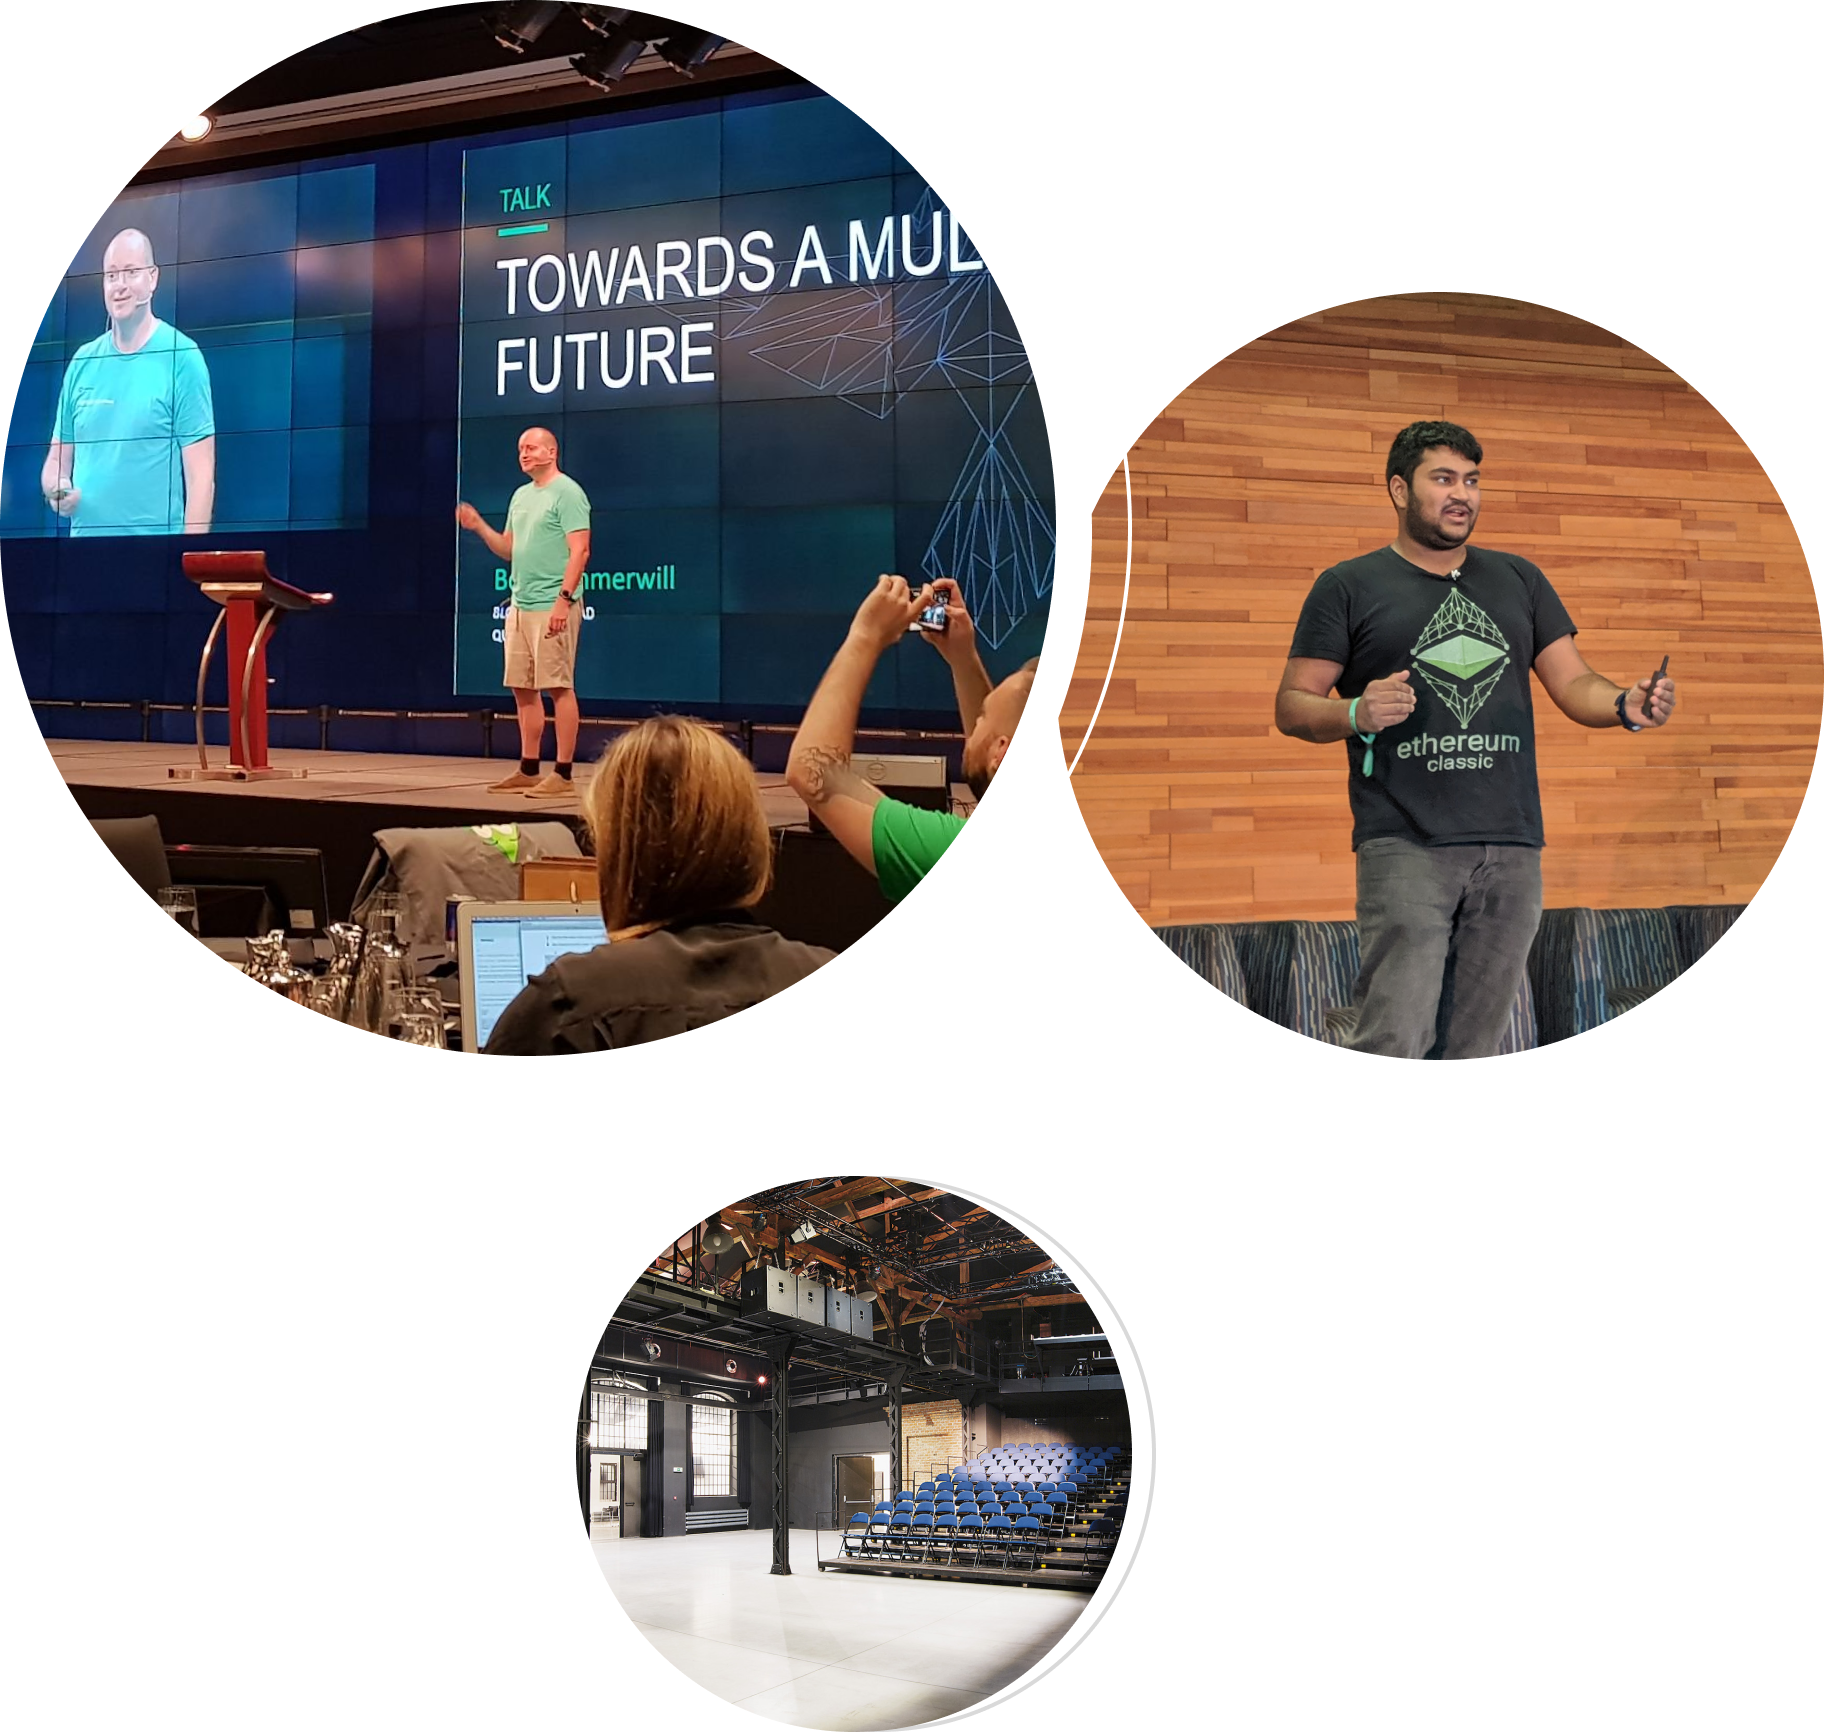
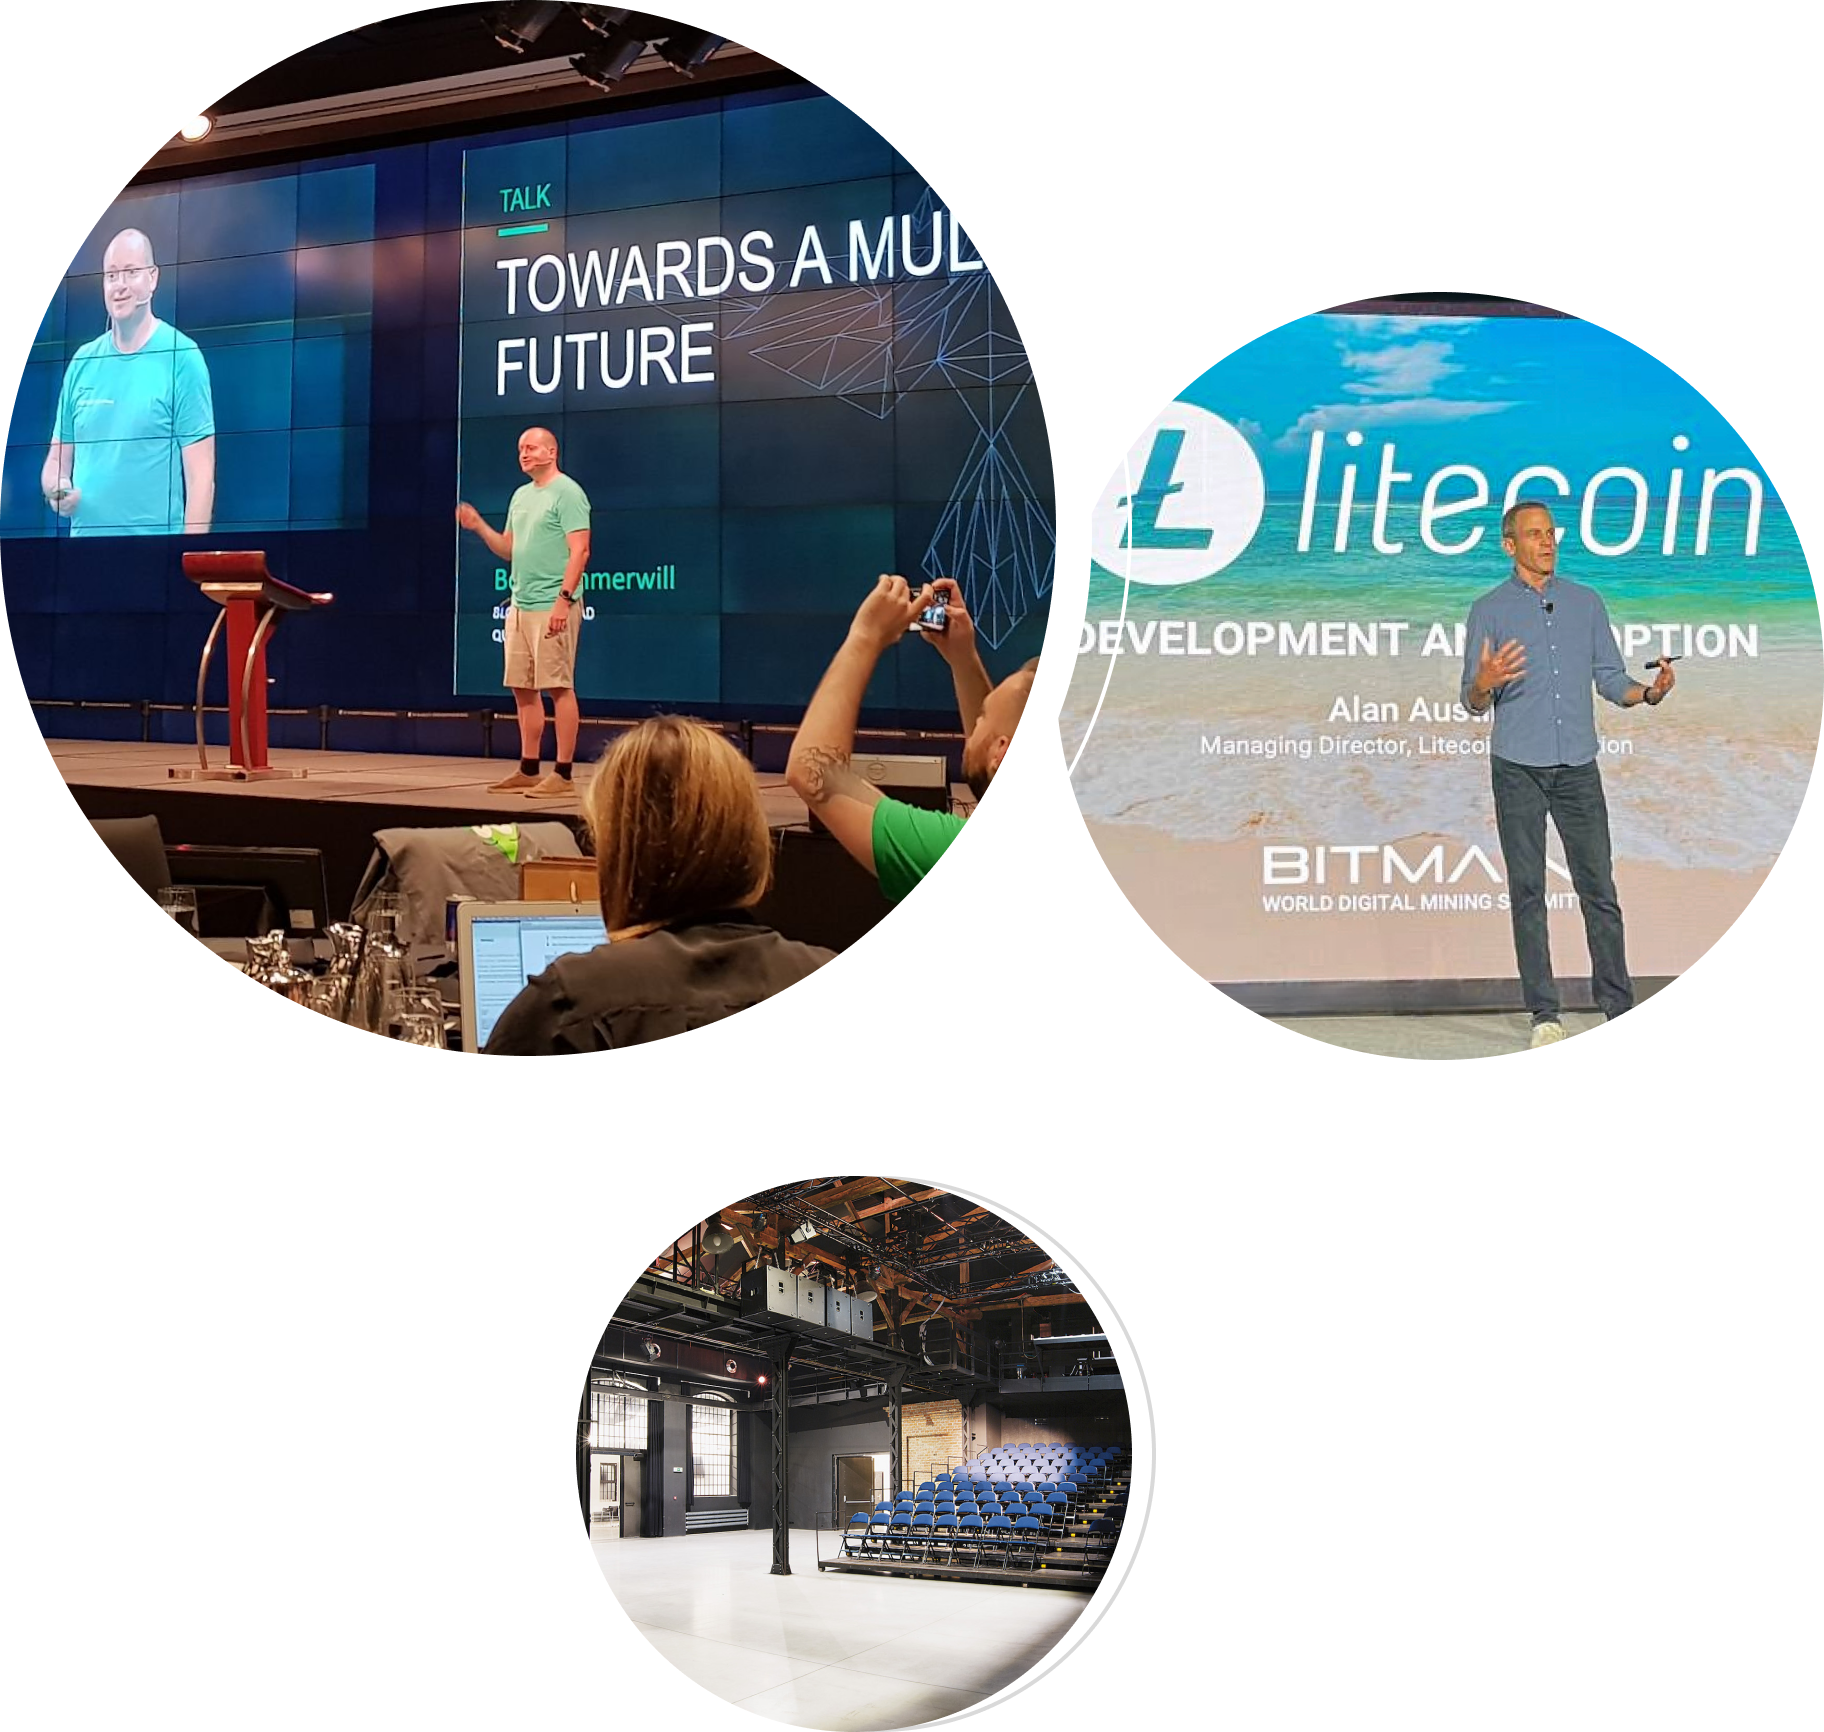
Latest Figma Updates (#21)
* #6 fix circle problem in speakers

* #4 Use LTC Foundation logo

* #2 CSS updates for new figma design changes

* figma design updates

* figma updates

diff --git a/src/assets/css/styles.css b/src/assets/css/styles.css
@@ -160,6 +160,10 @@
 	height: 17px;
 }
 
+.heroContainer .buyTktBtnContainer {
+	padding-top: 144px;
+}
+
 .heroContainer .heroImg {
 	width: 100%;
 }
@@ -290,6 +294,7 @@
 }
 
 .speakerCards .speakerInfo .speakersCompany {
+	max-width: 160px;
 	font-family: "Noto Sans", sans-serif;
 	font-style: normal;
 	font-weight: 500;
@@ -560,7 +565,7 @@
 }
 
 .eventTicketsContainer .card.generalTicket .ticketData {
-	margin-bottom: 142px;
+	margin-bottom: 36px;
 }
 
 .eventTicketsContainer .card.vipTicket .ticketData {
@@ -665,7 +670,7 @@
 
 .sponsorsContainer .sponsorsLogos {
 	display: flex;
-	justify-content: space-between;
+	justify-content: end;
 	max-width: 569px;
 	width: 100%;
 	margin-left: auto;
@@ -680,7 +685,6 @@
 }
 
 .sponsorsContainer .sponsorsLogo img {
-	width: 90px;
 	height: auto;
 }
 
@@ -758,7 +762,7 @@
 	margin: 0px;
 }
 
-.locationContainer .heading p:nth-child(2) {
+.locationContainer .heading p {
 	margin-bottom: 30px;
 }
 
@@ -787,6 +791,7 @@ footer {
 }
 
 .footerContainer .footerHeading {
+	padding-bottom: 156px;
 	display: flex;
 	flex-direction: column;
 	align-items: center;
@@ -902,6 +907,10 @@ footer {
 }
 
 @media screen and (max-width: 991px) {
+	.heroContainer .buyTktBtnContainer {
+		padding-top: 20px;
+	}
+
 	.navbar-nav .nav-link {
 		padding: 8px 0px !important;
 		margin: 0px !important;
@@ -943,7 +952,7 @@ footer {
 		margin-bottom: 24px;
 	}
 
-	.locationContainer .heading p:nth-child(2) {
+	.locationContainer .heading p {
 		margin-bottom: 24px !important;
 	}
 
@@ -953,6 +962,10 @@ footer {
 }
 
 @media screen and (max-width: 910px) {
+	.heroContainer .buyTktBtnContainer {
+		padding-top: 40px;
+	}
+
 	.agendaContainer {
 		max-width: 100% !important;
 		width: 100%;
@@ -1011,6 +1024,10 @@ footer {
 }
 
 @media screen and (max-width: 767px) {
+	.heroContainer .buyTktBtnContainer {
+		padding-top: 40px;
+	}
+
 	.navbar {
 		padding: 30px !important;
 	}
@@ -1067,7 +1084,6 @@ footer {
 	}
 
 	.sponsorsContainer .sponsorsLogo img {
-		width: 60px;
 		height: auto;
 	}
 
@@ -1180,7 +1196,6 @@ footer {
 	}
 
 	.sponsorsContainer .sponsorsLogo img {
-		width: 60px;
 		height: auto;
 	}
 
@@ -1198,6 +1213,10 @@ footer {
 @media screen and (max-width: 480px) {
 	.heroContainer .heroHeading h1 {
 		font-size: 32px;
+	}
+
+	.heroContainer .buyTktBtnContainer {
+		padding-top: 20px;
 	}
 
 	.heroContainer p {

diff --git a/src/views/HomeView.vue b/src/views/HomeView.vue
@@ -19,7 +19,7 @@
 	<!-- become a speaker section ends here -->
 
 	<!-- agenda section starts here -->
-	<Agenda id="agenda" />
+	<!-- Agenda id="agenda" -->
 	<!-- agenda section ends here -->
 
 	<!-- tickets secyion starts here -->
@@ -27,7 +27,7 @@
 	<!-- tickets secyion ends here -->
 
 	<!-- sponsors section starts here -->
-	<Sponsors id="sponsors" />
+	<Sponsors id="partnerships" />
 	<!-- sponsors section ends here -->
 
 	<!-- location section starts here -->
@@ -45,7 +45,7 @@ import About from "@/components/About";
 import Speakers from "@/components/Speakers";
 import BecomeSpeaker from "@/components/BecomeSpeaker";
 import Tickets from "@/components/Tickets";
-import Agenda from "@/components/Agenda";
+/* import Agenda from "@/components/Agenda"; */
 import Sponsors from "@/components/Sponsors";
 import Location from "@/components/Location";
 
@@ -58,7 +58,7 @@ export default {
 		Speakers,
 		BecomeSpeaker,
 		Tickets,
-		Agenda,
+		//Agenda,
 		Sponsors,
 		Location,
 		Footer,

diff --git a/src/components/Navbar/index.vue b/src/components/Navbar/index.vue
@@ -28,19 +28,19 @@
 							>Speakers</a
 						>
 					</li>
-					<li class="nav-item">
+					<!-- li class="nav-item">
 						<a class="nav-link" href="/#agenda" v-on:click="closeNav()"
 							>Agenda</a
 						>
-					</li>
+					</li -->
 					<li class="nav-item">
 						<a class="nav-link" href="/#tickets" v-on:click="closeNav()"
 							>Tickets</a
 						>
 					</li>
 					<li class="nav-item">
-						<a class="nav-link" href="/#sponsors" v-on:click="closeNav()"
-							>Sponsors</a
+						<a class="nav-link" href="/#partnerships" v-on:click="closeNav()"
+							>Partnerships</a
 						>
 					</li>
 					<li class="nav-item">

diff --git a/src/components/Header/index.vue b/src/components/Header/index.vue
@@ -7,11 +7,13 @@
 					<h1>POW SUMMIT</h1>
 					<p>La Fabrika, Prague | Czech Republic</p>
 				</div>
-				<a href="/#tickets" target="_parent" class="text-decoration-none">
-					<button class="buyTktBtn">
-						Buy Tickets <img src="@/assets/icons/arrow-right.svg" alt=">" />
-					</button>
-				</a>
+				<div class="buyTktBtnContainer">
+					<a href="/#tickets" target="_parent" class="text-decoration-none">
+						<button class="buyTktBtn">
+							Buy Tickets <img src="@/assets/icons/arrow-right.svg" alt=">" />
+						</button>
+					</a>
+				</div>
 			</div>
 			<div class="col-lg-6">
 				<img

diff --git a/src/components/Footer/index.vue b/src/components/Footer/index.vue
@@ -4,15 +4,6 @@
 		<div class="mainContainer footerContainer">
 			<div class="footerHeading">
 				<h2>POW SUMMIT</h2>
-				<div class="cryptoIcons">
-					<div class="etccoin-container">
-						<img src="@/assets/icons/etc-logo.svg" alt="etc" />
-					</div>
-					<span>+</span>
-					<div class="litecoin-container">
-						<img src="@/assets/icons/litecoin-logo-blue.svg" alt="litecoin" />
-					</div>
-				</div>
 			</div>
 			<div class="footerLinks">
 				<ul>

diff --git a/src/config/buttons.js b/src/config/buttons.js
@@ -2,12 +2,12 @@ const data = [
 	{
 		key: "become_volunteer",
 		title: "Become a Volunteer",
-		url: "https://www.google.com",
+		url: "https://docs.google.com/presentation/d/1xnAp2miWbFJpeGCrmXu6ZvuFlYfEpIGd/edit?rtpof=true",
 	},
 	{
 		key: "become_sponsor",
 		title: "Become a Sponsor",
-		url: "https://www.google.com",
+		url: "https://docs.google.com/presentation/d/1xnAp2miWbFJpeGCrmXu6ZvuFlYfEpIGd/edit?rtpof=true",
 	},
 	{
 		key: "become_speakers",

diff --git a/src/components/Speakers/index.vue b/src/components/Speakers/index.vue
@@ -20,6 +20,12 @@
 									<img src="@/assets/icons/twitter-icon.svg" alt="twitter" />
 								</a>
 								<a
+									v-if="speaker.social.linkedin"
+									:href="speaker.social.linkedin"
+								>
+									<img src="@/assets/icons/linkedin-icon.svg" alt="linkedin" />
+								</a>
+								<a
 									v-if="speaker.social.telegram"
 									:href="speaker.social.telegram"
 								>

diff --git a/src/md/location.md b/src/md/location.md
@@ -1,7 +1,9 @@
-# Location
+# Location & Contacts
 
-Lorem ipsum dolor sit amet consectetur. In sed porttitor gravida egestas bibendum auctor neque libero. Facilisis vitae imperdiet dictum non.
+The main venue for the conference is La Fabrika, where the full conference days will take place on Monday 26th and Tuesday 27th June 2023.
 
-Convallis egestas erat faucibus tristique diam ornare commodo nullam. Tincidunt ut tortor bibendum fermentum hac sit facilisis. Dignissim et egestas in convallis erat senectus cursus.
+The address is Komunardů 1001, 170 00 Praha 7-Holešovice, Czechia.
 
-![Location](/img/location.png){.location .pt-5}
+Questions? Contact us at [hello@mmhgroup.io](mailto:hello@mmhgroup.io)
+
+![Location](/img/location.png){.location .pt-4}

diff --git a/src/md/sponsors.md b/src/md/sponsors.md
@@ -1,4 +1,4 @@
-## Interested in Becoming a Sponsor?
+## Interested in Becoming a Partner?
 
 Tincidunt ut tortor bibendum fermentum hac sit facilisis.
 Dignissim et egestas in convallis erat senectus cursus.
